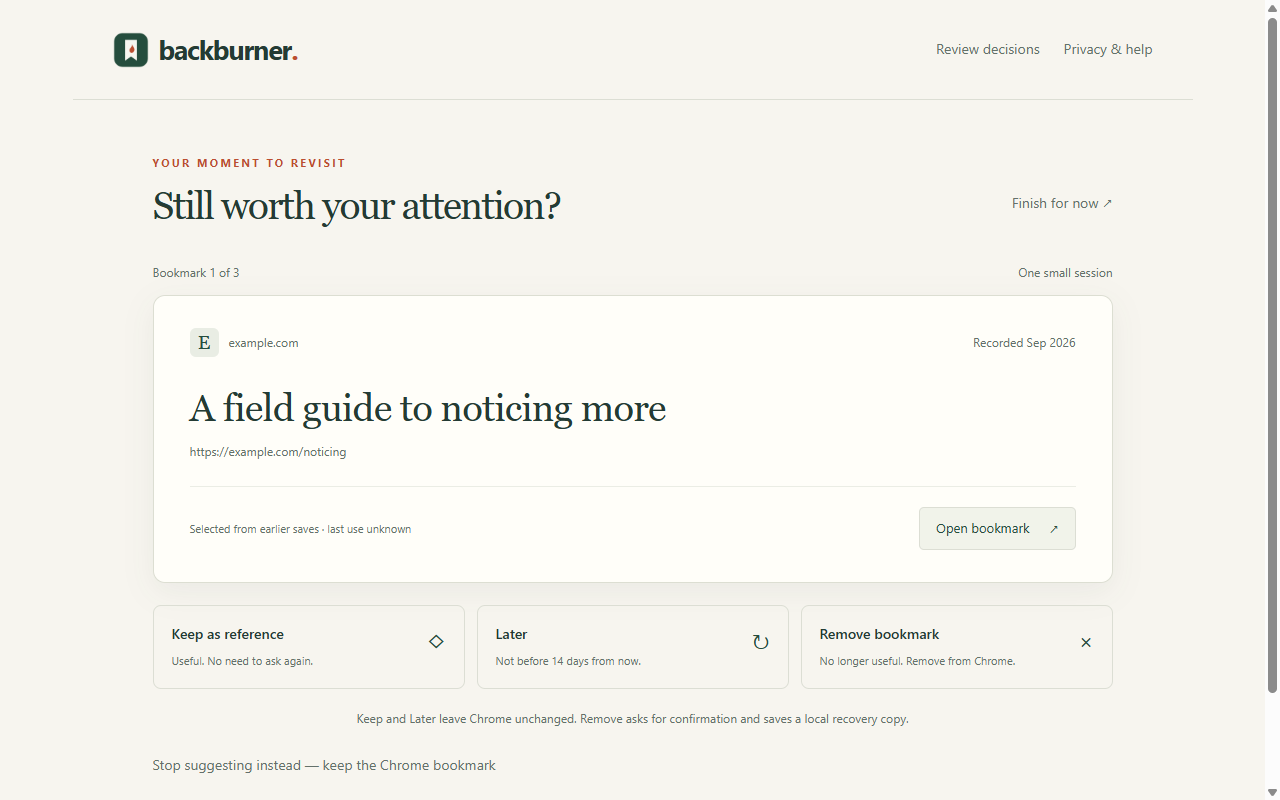
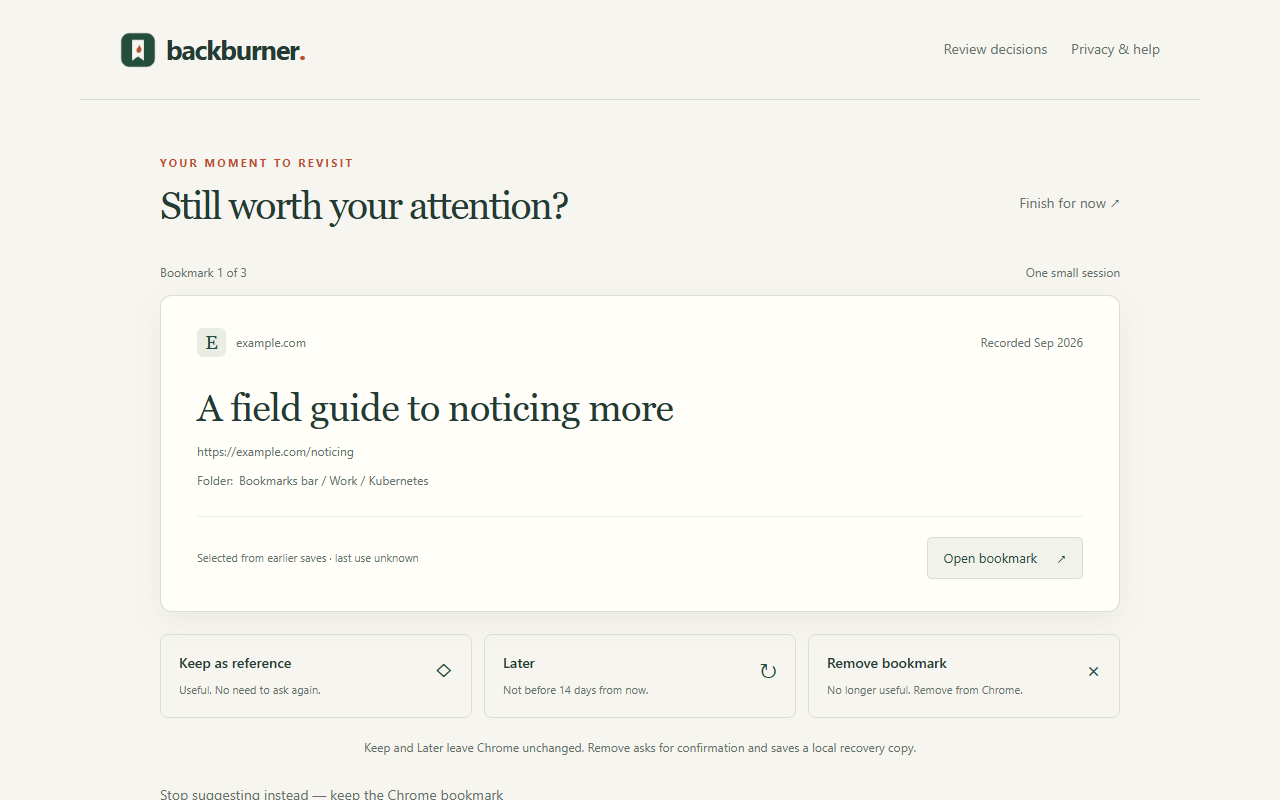
Show current bookmark folder context in reviews
Derive ancestry from Chrome without persisting paths or adding permissions. Preserve the leaf folder in narrow layouts and revalidate changed context before acting.

diff --git a/review.css b/review.css
@@ -3,6 +3,7 @@
 *{box-sizing:border-box}body{margin:0;background:var(--paper);color:var(--ink);font:16px/1.6 "Segoe UI",Arial,sans-serif;min-height:100vh}button,a{-webkit-tap-highlight-color:transparent}button{font:inherit;cursor:pointer}button:disabled{opacity:.55;cursor:wait}a{color:inherit;text-underline-offset:4px}button:focus-visible,a:focus-visible,[tabindex]:focus-visible{outline:3px solid var(--accent);outline-offset:5px}button{transition:background .12s ease,border-color .12s ease}button:hover{border-color:var(--ink)}[hidden]{display:none!important}.site-header{max-width:1120px;margin:auto;padding:28px 40px;display:flex;align-items:center;justify-content:space-between;border-bottom:1px solid var(--line)}.brand{display:flex;align-items:center;text-decoration:none;font-size:27px;font-weight:700;letter-spacing:-1.2px;gap:10px}.brand-dot{color:var(--accent);margin-left:-10px}.brand img{object-fit:contain}nav{display:flex;gap:24px}.text-button{border:0;background:none;padding:6px 0;color:var(--muted);font-size:14px}.text-button:hover{color:var(--ink);text-decoration:underline;text-underline-offset:5px}main{max-width:1040px;min-height:calc(100vh - 210px);padding:54px 40px 60px;margin:auto}.centered{text-align:center;max-width:880px;margin:auto}.eyebrow{font-size:11px;letter-spacing:2.3px;font-weight:700;color:var(--accent);margin:0 0 18px}h1{font-family:Georgia,"Times New Roman",serif;font-weight:400;font-size:clamp(36px,4.3vw,58px);line-height:1.12;letter-spacing:-1.7px;margin:0 0 24px}h2{line-height:1.3}.lede{color:var(--muted);font-size:17px;line-height:1.7;max-width:650px;margin:0 auto 28px}.primary{background:var(--green);border:1px solid var(--green);border-radius:7px;color:white;font-size:15px;padding:15px 28px;min-width:190px}.primary:hover{background:#193e2f}.primary span{margin-left:24px}.small-note{font-size:12px;color:var(--muted);margin:16px 0}.trust-note{font-size:13px;color:var(--muted);margin:28px 0 22px}.compact{text-align:center;font-size:12px;margin:20px 0}.welcome-steps{display:grid;grid-template-columns:repeat(3,1fr);gap:32px;border-top:1px solid var(--line);border-bottom:1px solid var(--line);padding:24px 0;margin:34px 0 22px;text-align:left}.welcome-steps span{font:italic 20px Georgia,serif;color:var(--accent)}.welcome-steps h2{font-size:15px;margin:8px 0}.welcome-steps p{font-size:13px;color:var(--muted);margin:0}.review-heading{display:flex;justify-content:space-between;align-items:center;gap:20px}.review-heading h1{font-size:39px}.review-heading .eyebrow{margin-bottom:12px}.review-heading .text-button{white-space:nowrap}.session-progress{display:flex;justify-content:space-between;font-size:12px;color:var(--muted);margin:12px 0 12px}.bookmark-card{background:#fffef9;border:1px solid #dcded2;border-radius:12px;padding:32px 36px;box-shadow:0 9px 30px #283e3110;min-height:270px}.bookmark-meta{display:flex;align-items:center;gap:10px;color:var(--muted);font-size:12px}.saved-label{margin-left:auto}#domain-mark{background:#e9ede4;color:var(--green);display:grid;place-items:center;width:29px;height:29px;border-radius:6px;text-transform:uppercase;font-family:Georgia,serif;font-size:19px}#bookmark-title{font-family:Georgia,serif;font-weight:400;font-size:clamp(28px,3vw,38px);line-height:1.2;letter-spacing:-.7px;margin:28px 0 12px;overflow-wrap:anywhere}.url{font-size:12px;color:var(--muted);overflow-wrap:anywhere;margin:0}.card-bottom{border-top:1px solid #ebede5;margin-top:25px;padding-top:20px;display:flex;align-items:center;justify-content:space-between;gap:20px}.card-bottom p{font-size:11px;color:var(--muted);margin:0}.open-button{border:1px solid var(--line);background:#f1f3ea;padding:10px 16px;border-radius:5px;font-size:13px;color:var(--green);white-space:nowrap}.open-button span{margin-left:16px}.decision-actions{display:grid;grid-template-columns:repeat(3,1fr);gap:12px;margin-top:22px}.decision{color:var(--ink);text-align:left;background:transparent;border:1px solid var(--line);border-radius:8px;padding:17px 18px}.decision:hover{background:#eef0e7}.decision strong{display:block;font-size:14px;font-weight:600}.decision span:last-child{font-size:11px;color:var(--muted)}.decision-icon{float:right;font-size:22px;color:var(--green);margin-left:4px}.notice:empty{display:none}.notice{max-width:960px;margin:14px auto 0;padding:10px 20px;border-left:3px solid var(--accent);background:#efe7da;font-size:13px}.notice button{border:0;background:none;color:var(--green);text-decoration:underline;margin-left:15px}.summary-counts{display:flex;justify-content:center;gap:42px;border-block:1px solid var(--line);padding:20px;margin-bottom:24px}.summary-counts strong{display:block;font:32px Georgia,serif}.summary-counts span{font-size:12px;color:var(--muted)}.decision-row{display:flex;gap:20px;align-items:center;justify-content:space-between;padding:20px 0;border-bottom:1px solid var(--line)}.decision-row h2{font-size:16px;margin:0 0 4px;overflow-wrap:anywhere}.decision-row p{font-size:12px;color:var(--muted);margin:0;overflow-wrap:anywhere}.decision-row button{flex-shrink:0}.decision-row>div{min-width:0}.help-grid{display:grid;grid-template-columns:1fr 1fr;gap:54px}.help-grid h2{font-size:17px;margin:26px 0 10px}.help-grid p{font-size:14px;color:var(--muted)}footer{max-width:1040px;margin:0 auto;padding:22px 40px;display:flex;justify-content:space-between;border-top:1px solid var(--line);color:var(--muted);font-size:11px}footer span:last-child{font-size:9px;letter-spacing:1.3px;display:flex;align-items:center;gap:8px}footer i{width:6px;height:6px;border-radius:100%;background:#62805e}.skip-link{position:absolute;top:-60px;left:20px;background:var(--paper);padding:10px;z-index:2}.skip-link:focus{top:0}.empty-message{padding:40px;border:1px dashed var(--line);text-align:center;color:var(--muted)}
 @media(max-width:650px){.site-header{padding:18px 20px}.brand{font-size:23px}nav{gap:12px}nav button{font-size:11px!important}main{padding:35px 20px 45px}.welcome-steps{grid-template-columns:1fr;gap:20px}.welcome-steps h2{display:inline;margin-left:10px}.welcome-steps p{margin-top:5px}.review-heading{align-items:flex-start;flex-direction:column;gap:0}.review-heading h1{font-size:34px}.review-heading .text-button{margin-bottom:15px}.bookmark-card{padding:23px 20px}.saved-label{display:none}.decision-actions{grid-template-columns:1fr;gap:8px}.decision{padding:12px 16px}.decision strong{display:inline-block;margin-right:10px}.decision span:last-child{display:block}.card-bottom{align-items:flex-start;flex-direction:column;gap:15px}.help-grid{grid-template-columns:1fr;gap:0}.summary-counts{gap:24px}footer{padding:20px;font-size:10px}.notice{margin:10px 20px 0}.lede{font-size:15px}}
 @media(prefers-reduced-motion:reduce){*{transition:none!important}}
+.folder-context{display:flex;gap:6px;margin-top:10px;font-size:12px;color:var(--muted)}.folder-context>span{flex-shrink:0}.folder-path{display:flex;min-width:0;margin:0}.folder-path span{unicode-bidi:plaintext}.folder-path #folder-ancestors{min-width:1.5em;overflow:hidden;text-overflow:ellipsis;white-space:nowrap}.folder-path #folder-leaf{flex-shrink:0;max-width:calc(100% - 1.5em);overflow-wrap:anywhere;white-space:pre-wrap}.folder-path #folder-ancestors[hidden]+#folder-leaf{max-width:100%}
 .reminder-handoff,.reminder-settings{border:1px solid var(--line);border-radius:8px;padding:20px;margin-bottom:28px;overflow-wrap:anywhere}.reminder-handoff h2{margin:0 0 10px}.reminder-handoff button,.reminder-settings button{margin:8px 16px 8px 0;white-space:normal}.reminder-handoff p,.reminder-settings p{font-size:13px}
 
 dialog{max-width:560px;width:calc(100% - 40px);border:1px solid var(--line);border-radius:12px;background:var(--paper);color:var(--ink);padding:28px}dialog::backdrop{background:#10251c88}#confirm-detail{white-space:pre-wrap;overflow-wrap:anywhere;font-size:14px}.dialog-actions{display:flex;justify-content:flex-end;gap:12px;margin-top:24px}.dialog-actions button{padding:10px 18px;border:1px solid var(--line);border-radius:5px;background:#fff;color:var(--ink)}#confirm-yes{background:var(--green);color:white}#restore-folder{display:block;width:100%;padding:10px;margin-top:8px}.recovery-actions{display:flex;gap:15px;flex-wrap:wrap}.decision-row h3{margin:0 0 4px;font-size:16px}.summary-counts{flex-wrap:wrap}@media(max-width:650px){.recovery-actions{flex-direction:column}.decision-row{align-items:flex-start}}

diff --git a/review.js b/review.js
@@ -1,4 +1,4 @@
-import { flatten, candidates, activityDate, safeUrl, matches, eligibleAt, startSession, startReminderSession, markShown, decide, finish, undo, DEFAULT_BATCH_SIZE } from './domain.js';
+import { flatten, folderPath, candidates, activityDate, safeUrl, matches, eligibleAt, startSession, startReminderSession, markShown, decide, finish, undo, DEFAULT_BATCH_SIZE } from './domain.js';
 import { createStore, fingerprintUrl } from './store.js';
 import { createRemoval } from './removal.js';
 
@@ -7,6 +7,7 @@ const store = createStore(chrome.storage.local);
 const removal=createRemoval({bookmarks:chrome.bookmarks,read:()=>state,write:save});
 let state, nodes = [], current, busy = false, screen = 'loading', returnScreen = 'home', decisionLimit = 30;
 let reminderTarget=null, reminderRequested=false;
+let bookmarkTree=[], currentFolder=[];
 const sections = ['loading','welcome','home','review','summary','decisions','help','locked','fatal'];
 
 function show(name) {
@@ -32,13 +33,13 @@ async function run(action) {
 }
 async function save(transform) { state = await store.update(transform); }
 async function refreshNodes() {
-  const bookmarks = flatten(await chrome.bookmarks.getTree());
+  const tree=await chrome.bookmarks.getTree(), bookmarks=flatten(tree);
   // Batch hashing avoids thousands of simultaneous crypto tasks on large trees.
   const result=[];
   for(let i=0; i<bookmarks.length; i+=100) {
     result.push(...await Promise.all(bookmarks.slice(i,i+100).map(async n => ({...n, fingerprint:await fingerprintUrl(n.url)}))));
   }
-  nodes=result;
+  nodes=result;bookmarkTree=tree;
 }
 function dateLabel(value) { return new Intl.DateTimeFormat(undefined,{month:'short',year:'numeric'}).format(value); }
 
@@ -75,6 +76,11 @@ async function renderReview() {
   $('saved-date').textContent=activityDate(current) ? `Recorded ${dateLabel(activityDate(current))}` : 'Date unknown';
   $('bookmark-title').textContent=current.title || url.hostname;
   $('bookmark-url').textContent=current.url;
+  currentFolder=folderPath(bookmarkTree,current.id);
+  $('bookmark-folder').title=currentFolder.join(' / ');
+  $('folder-ancestors').hidden=currentFolder.length<2;
+  $('folder-ancestors').textContent=currentFolder.slice(0,-1).join(' / ');
+  $('folder-leaf').textContent=(currentFolder.length>1?' / ':'')+currentFolder.at(-1);
   $('selection-reason').textContent=current.dateLastUsed ? 'Older recorded bookmark activity · not full browsing history' : current.dateAdded ? 'Selected from earlier saves · last use unknown' : 'No date recorded · not necessarily unused';
   const entry=state.entries[current.id];
   $('deferrals').textContent=matches(entry,current) && entry.deferrals>0 ? `You’ve chosen Later ${entry.deferrals} ${entry.deferrals===1?'time':'times'}. No rush.` : '';
@@ -129,7 +135,10 @@ async function revalidate() {
     if(available.some(n=>n.id===current.id)) throw new Error('Bookmark could not be checked.');
   }
   if(!node || !safeUrl(node.url)) {await renderReview();message('This bookmark is no longer available. Nothing was opened or decided.');return false;}
-  if(node.url!==current.url || node.title!==current.title) {await renderReview();message('This bookmark changed in Chrome. Review the updated details before deciding.');return false;}
+  const latestFolder=folderPath(await chrome.bookmarks.getTree(),node.id);
+  if(node.url!==current.url || node.title!==current.title || node.parentId!==current.parentId || JSON.stringify(latestFolder)!==JSON.stringify(currentFolder)) {
+    await renderReview();message('This bookmark or its folder changed in Chrome. Review the updated details before deciding.');return false;
+  }
   return true;
 }
 

diff --git a/test/domain.test.js b/test/domain.test.js
@@ -1,6 +1,6 @@
 import test from 'node:test';
 import assert from 'node:assert/strict';
-import {emptyState,safeUrl,flatten,candidates,startSession,startReminderSession,eligibleAt,LATER_DELAY,markShown,decide,finish,undo,validateState} from '../domain.js';
+import {emptyState,safeUrl,flatten,folderPath,candidates,startSession,startReminderSession,eligibleAt,LATER_DELAY,markShown,decide,finish,undo,validateState} from '../domain.js';
 import {node,fp,otherFp} from './fixtures.js';
 
 test('URL controls accept web destinations and reject executable/local/credential URLs',()=>{
@@ -14,6 +14,39 @@ test('tree controls include only eligible leaves, even deeply nested',()=>{
 test('selection interleaves unknown dates, orders dated records and does not equate unknown with unused',()=>{
   const nodes=[node('1',{dateAdded:3000}),node('2',{dateAdded:undefined}),node('3',{dateAdded:1000}),node('4',{dateAdded:2000})];
   assert.deepEqual(candidates(nodes,emptyState()).map(n=>n.id),['3','2','4','1']);
+});
+test('folder context follows native ancestry without including the invisible root or mutating data',()=>{
+  const leaf=node('4',{parentId:'3'});
+  const tree=[{id:'0',title:'Invisible root',children:[
+    {id:'1',parentId:'0',title:'Bookmarks Bar',children:[
+      {id:'2',parentId:'1',title:'Work',children:[{id:'3',parentId:'2',title:'Kubernetes',children:[leaf]}]},
+      node('6',{parentId:'1'})
+    ]},node('5',{parentId:'0'})
+  ]}];
+  const before=structuredClone(tree);
+  assert.deepEqual(folderPath(tree,'4'),['Bookmarks Bar','Work','Kubernetes']);
+  assert.deepEqual(folderPath(tree,'5'),['Bookmarks root']);
+  assert.deepEqual(folderPath(tree,'6'),['Bookmarks Bar']);
+  assert.deepEqual(tree,before);
+  tree[0].children[0].title='Localized folder';
+  assert.equal(folderPath(tree,'4')[0],'Localized folder');
+});
+test('folder context reports missing/stale parents and cycles without inventing a complete path',()=>{
+  const leaf=node('4',{parentId:'3'}), folder={id:'3',parentId:'missing',title:'Kubernetes',children:[leaf]};
+  assert.deepEqual(folderPath([folder],'4'),['Folder unavailable','Kubernetes']);
+  assert.deepEqual(folderPath([leaf],'4'),['Folder unavailable']);
+  assert.deepEqual(folderPath([folder],'missing'),['Folder unavailable']);
+  folder.parentId='3';
+  assert.deepEqual(folderPath([folder],'4'),['Folder unavailable','Kubernetes']);
+  folder.children.push(folder);
+  assert.deepEqual(folderPath([folder],'4'),['Folder unavailable','Kubernetes']);
+  assert.deepEqual(folderPath([node('3'),leaf],'4'),['Folder unavailable']);
+});
+test('folder context supports untitled folders and deep ancestry without recursion',()=>{
+  let child=node('2001',{parentId:'2000'});
+  for(let i=2000;i>0;i--)child={id:String(i),parentId:String(i-1),title:i===2000?'':`Folder ${i}`,children:[child]};
+  const path=folderPath([{id:'0',children:[child]}],'2001');
+  assert.equal(path.length,2000);assert.equal(path[0],'Folder 1');assert.equal(path.at(-1),'Unnamed folder');
 });
 test('all decisions preserve input nodes; suppression, undo, and changed URL fingerprint controls',()=>{
   for(const disposition of ['reference','dismissed','later']) {

diff --git a/test/safety.test.js b/test/safety.test.js
@@ -152,6 +152,40 @@ test('Review more shows the existing empty state and preserves completion on sav
   assert.equal(h.elements.get('review').hidden,false);assert.equal(h.read().session.queue.length,1);
 });
 
+test('review folder metadata is literal, preserves its leaf, refreshes, and is not persisted',async()=>{
+  const leaf={id:'3',parentId:'2',url:'https://example.com/context',title:'Synthetic context'};
+  const folder={id:'2',parentId:'1',title:'<img src=x onerror=alert(1)>',children:[leaf]};
+  const tree=[{id:'0',children:[{id:'1',parentId:'0',title:'Bookmarks Bar',children:[folder]}]}];
+  const h=await completionHarness(tree);
+  await h.click('review-more');
+  assert.equal(h.elements.get('bookmark-folder').title,'Bookmarks Bar / <img src=x onerror=alert(1)>');
+  assert.equal(h.elements.get('folder-ancestors').textContent,'Bookmarks Bar');
+  assert.equal(h.elements.get('folder-leaf').textContent,' / <img src=x onerror=alert(1)>');
+  assert.equal(h.elements.get('folder-leaf').children.length,0);
+  assert.equal(JSON.stringify(h.read()).includes(folder.title),false);
+  const before=h.read();
+  folder.title='Renamed folder';
+  await h.evaluate("chrome.bookmarks.get=async()=>[{id:'3',parentId:'2',url:'https://example.com/context',title:'Synthetic context'}]");
+  await h.click('keep');
+  assert.deepEqual(h.read(),before);
+  assert.equal(h.elements.get('bookmark-folder').title,'Bookmarks Bar / Renamed folder');
+  assert.match(h.elements.get('notice').children[0].textContent,/folder changed/);
+  await h.click('keep');assert.equal(h.read().entries['3'].disposition,'reference');
+});
+
+test('root and unavailable folder metadata replace the previous context rather than retaining it',async()=>{
+  const leaf={id:'1',parentId:'0',url:'https://example.com/root',title:'Synthetic root'};
+  const tree=[{id:'0',children:[leaf]}],h=await completionHarness(tree);
+  await h.click('review-more');
+  assert.equal(h.elements.get('folder-leaf').textContent,'Bookmarks root');
+  assert.equal(h.elements.get('folder-ancestors').hidden,true);
+  leaf.parentId='missing';
+  await h.evaluate('renderReview()');
+  assert.equal(h.elements.get('bookmark-folder').title,'Folder unavailable');
+  assert.equal(h.elements.get('folder-leaf').textContent,'Folder unavailable');
+  assert.equal(h.elements.get('folder-ancestors').textContent,'');
+});
+
 test('reminder handoff preserves an unfinished review until explicit switch and uses the selected item',async()=>{
   const h=await completionHarness([1,2].map(id=>({id:String(id),url:`https://example.com/${id}`,title:`Synthetic ${id}`})));
   await h.evaluate('save(s=>startSession(s,nodes))');

diff --git a/domain.js b/domain.js
@@ -22,6 +22,26 @@ export function flatten(tree) {
   return nodes;
 }
 
+export function folderPath(tree, bookmarkId) {
+  const byId=new Map(), visited=new Set(), stack=[...tree];
+  while(stack.length) {
+    const node=stack.pop();
+    if(visited.has(node))continue;
+    visited.add(node);byId.set(node.id,node);
+    if(Array.isArray(node.children))for(const child of node.children)stack.push(child);
+  }
+  const bookmark=byId.get(bookmarkId), names=[], parents=new Set();
+  if(!bookmark?.url)return ['Folder unavailable'];
+  let id=bookmark.parentId;
+  while(true) {
+    const parent=byId.get(id);
+    if(!parent || parent.url)return ['Folder unavailable',...names.reverse()];
+    if(parents.has(id))return ['Folder unavailable',...(names.length?[names[0]]:[])];
+    if(id==='0' && parent.parentId===undefined)return names.length?names.reverse():['Bookmarks root'];
+    parents.add(id);names.push(parent.title || 'Unnamed folder');id=parent.parentId;
+  }
+}
+
 const validDate = value => Number.isFinite(value) && value > 0 && value <= Date.now() ? value : 0;
 export const activityDate = node => Math.max(validDate(node.dateAdded), validDate(node.dateLastUsed));
 export const matches = (entry, node) => entry?.fingerprint === node.fingerprint;

diff --git a/review.html b/review.html
@@ -47,6 +47,7 @@
       <article class="bookmark-card">
         <div class="bookmark-meta"><span id="domain-mark" aria-hidden="true"></span><span id="domain"></span><span class="saved-label" id="saved-date"></span></div>
         <h2 id="bookmark-title" tabindex="-1"></h2><p id="bookmark-url" class="url"></p>
+        <div class="folder-context"><span>Folder:</span><p id="bookmark-folder" class="folder-path"><span id="folder-ancestors"></span><span id="folder-leaf"></span></p></div>
         <div class="card-bottom"><p id="selection-reason"></p><button id="open" class="open-button">Open bookmark <span aria-hidden="true">↗</span></button></div>
       </article>
       <p id="deferrals" class="small-note"></p>

diff --git a/README.md b/README.md
@@ -6,7 +6,7 @@ Backburner brings existing Chrome bookmarks into a small review. Open something 
 
 ![Backburner review](release/screenshot-review.png)
 
-## Status: developer preview 0.1.3
+## Status: developer preview 0.1.4
 
 This is a working extension candidate, not a Chrome Web Store release. Public launch still needs founder session-size calibration, a newcomer walkthrough, and store submission/review. The first preview session learns its size when you finish; that is not yet the final public default.
 
@@ -20,6 +20,8 @@ This is a working extension candidate, not a Chrome Web Store release. Public la
 On Windows, `npm run package` creates `dist/backburner.zip` and extracts its exact runtime contents to `dist/unpacked`. Load the latter to test the package. A ZIP is a store upload artifact, not a one-click consumer install.
 
 ## Actions
+
+The review shows the bookmark's current Chrome folder path beneath its URL for context, not folder management. Long ancestry is shortened visually before the leaf folder; long leaf names wrap. The full path remains available to assistive technology and in its tooltip. Root-level bookmarks and unavailable ancestry are labeled explicitly. Paths are derived from Chrome, refreshed on review and checked before acting, never saved as new metadata or included in notifications.
 
 - **Open bookmark:** visit the page in another tab; the review waits here.
 - **Keep as reference:** leave the bookmark in Chrome and stop asking about it.

diff --git a/release/reviewer-instructions.md b/release/reviewer-instructions.md
@@ -1,6 +1,15 @@
-# Release verification — 0.1.3
+# Release verification — 0.1.4
 
 Use synthetic bookmarks in a clean profile. No account needed.
+
+Verify current folder context below the review URL using nested native folders.
+Check direct root leaves, untitled/missing/cyclic ancestry with controlled fixtures,
+and native rename/move followed by action revalidation/reload. A changed context
+must be shown before accepting the action. At desktop and narrow widths, long
+ancestry must ellipsize before the leaf; long leaf names must wrap without
+horizontal overflow. Full text stays in the DOM/tooltip, with no links or controls.
+Hostile folder names render literally. Confirm no new path persistence, permission,
+notification content, selection or recovery behavior.
 
 Run npm run package and npm test; load dist/unpacked, the exact extracted ZIP, and record its SHA256 and Chrome version.
 
